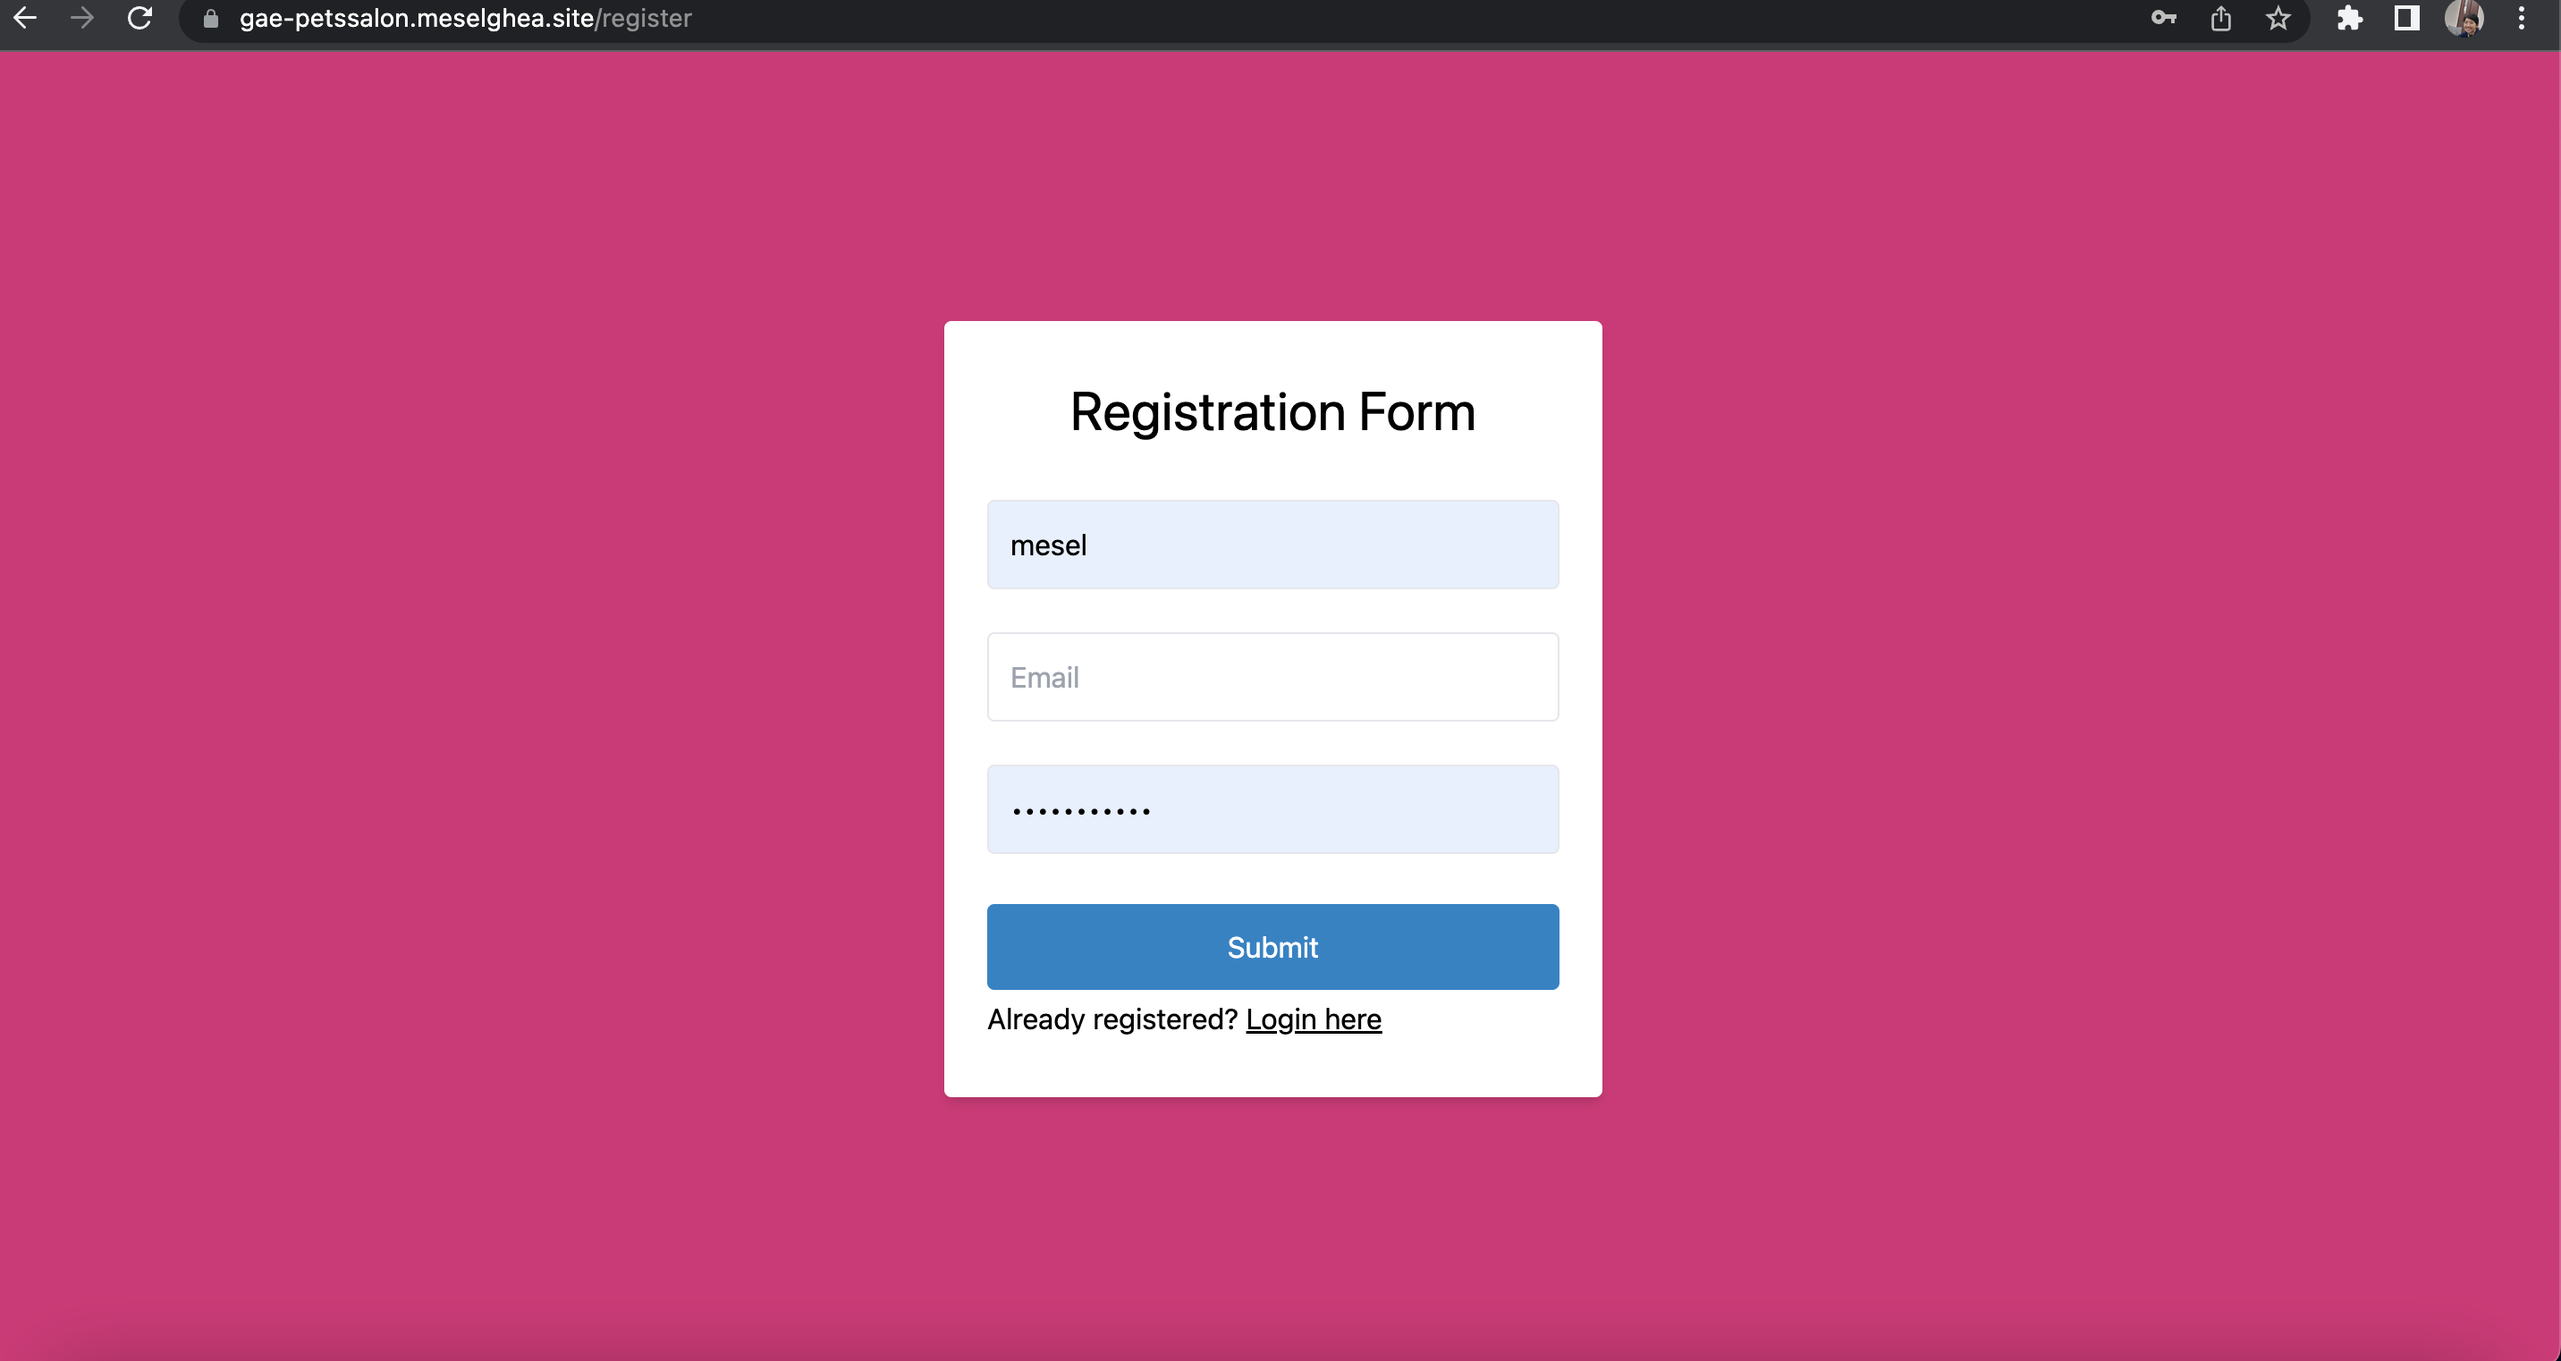
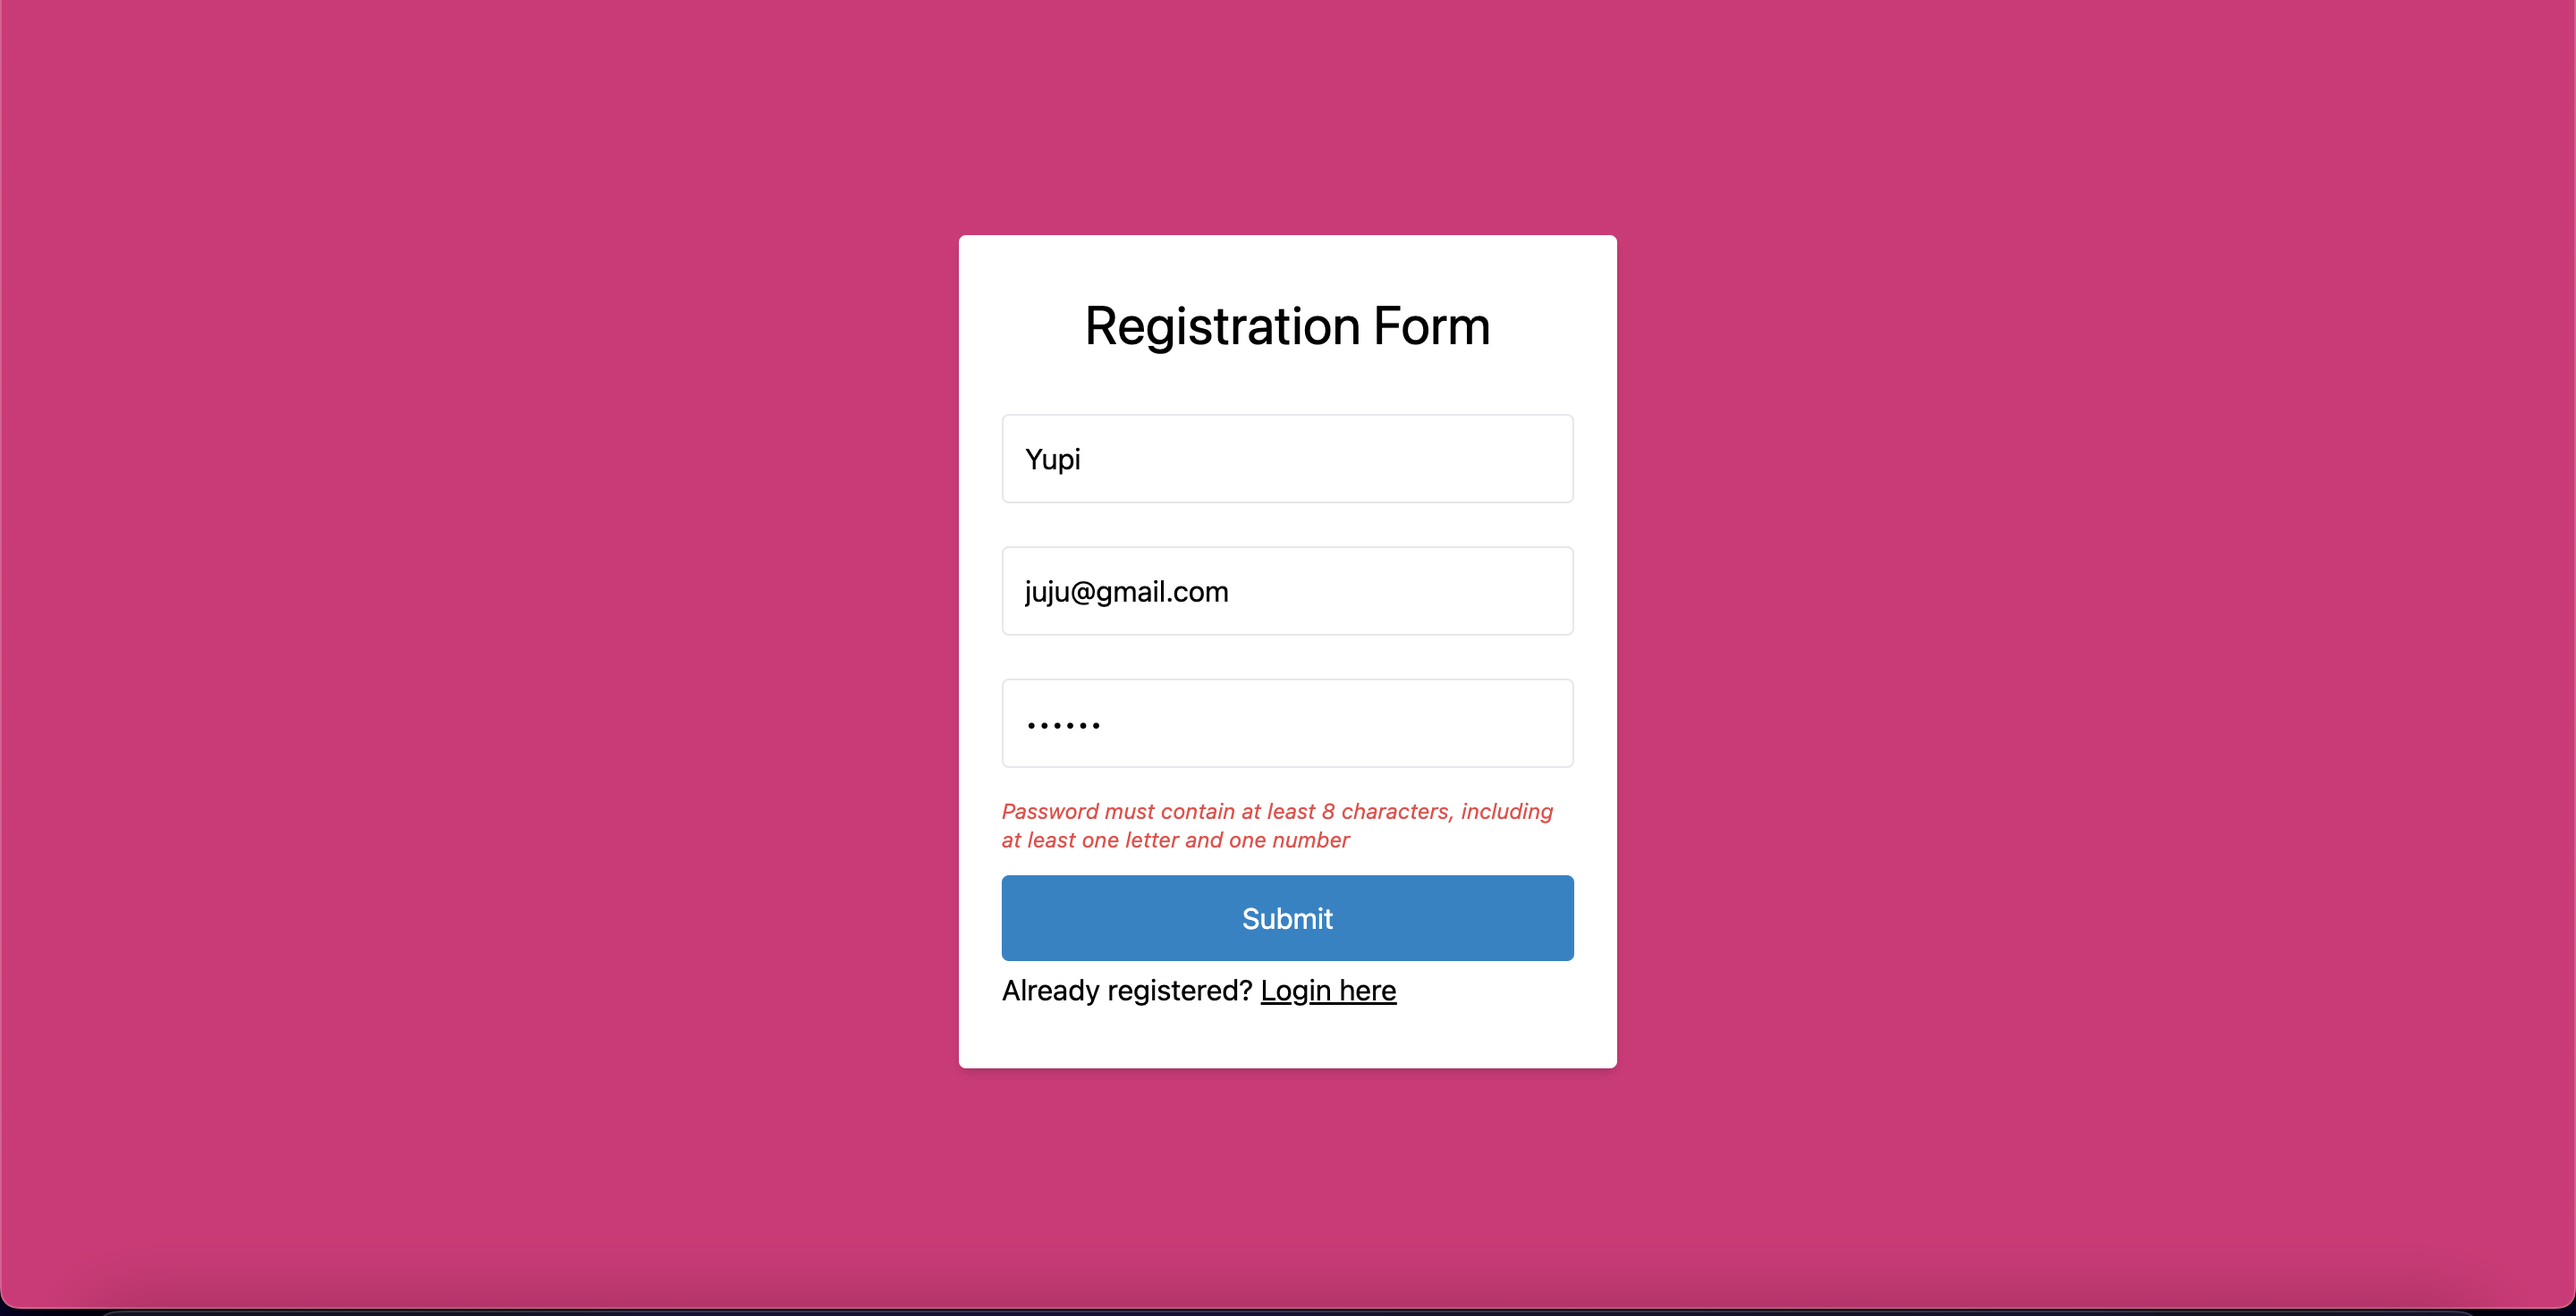
add readme

diff --git a/src/pages/auth/Register.tsx b/src/pages/auth/Register.tsx
@@ -16,7 +16,10 @@ const Register: React.FC = () => {
       .email("Invalid email address"),
     password: string()
       .required("Password is required")
-      .min(8, "Password must be at least 8 characters"),
+      .matches(
+        /^(?=.*[A-Za-z])(?=.*\d)[A-Za-z\d]{8,}$/,
+        'Password must contain at least 8 characters, including at least one letter and one number'
+      ),
   });
 
   const {
